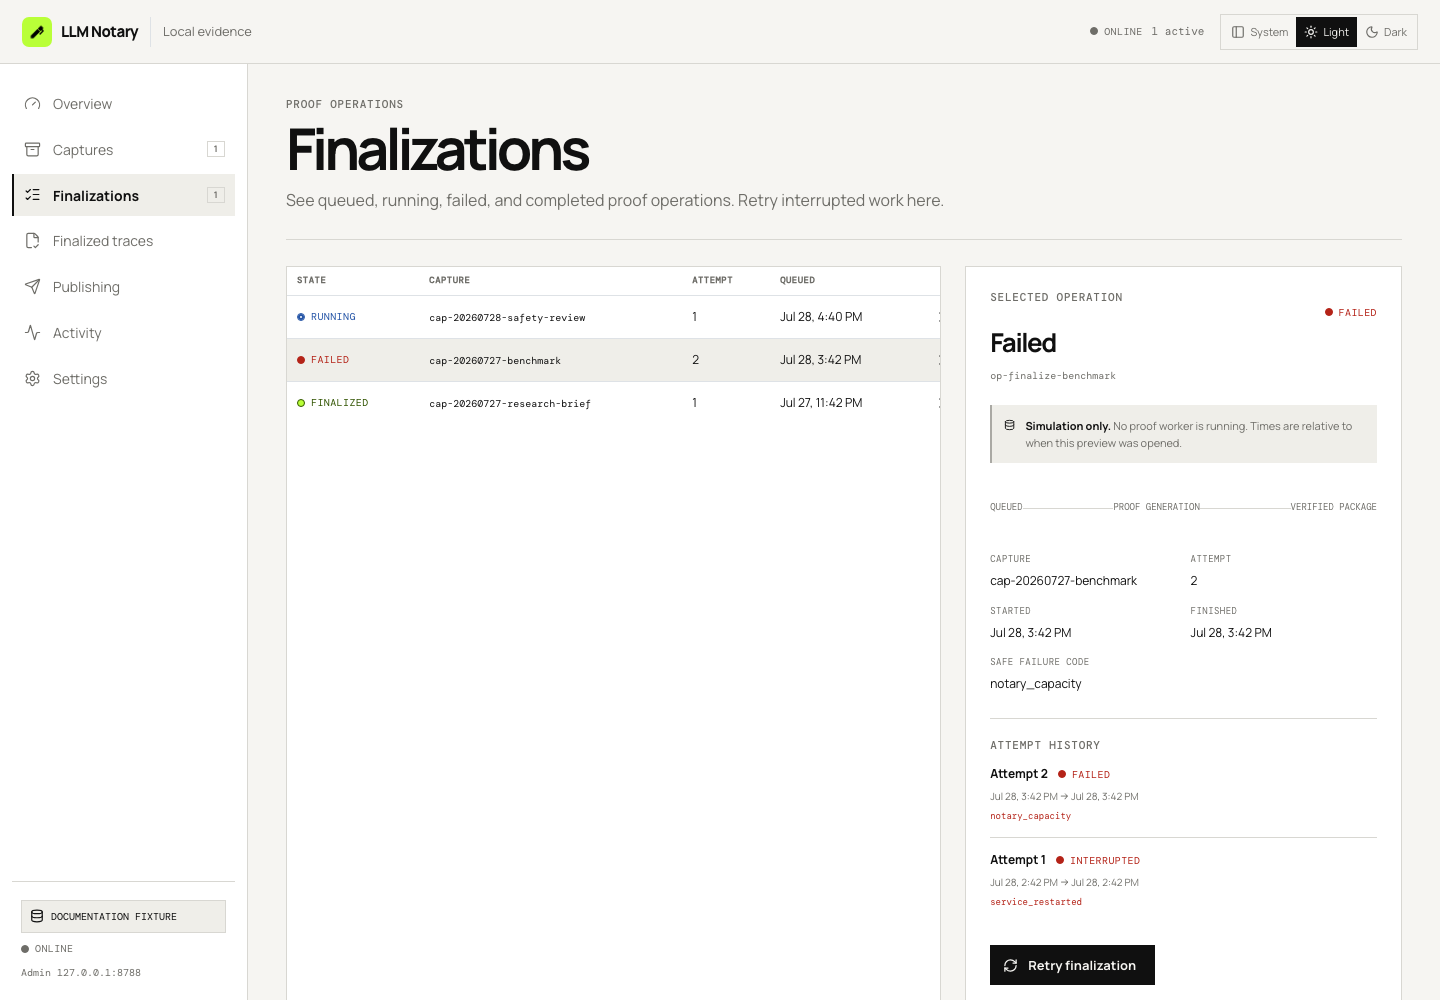
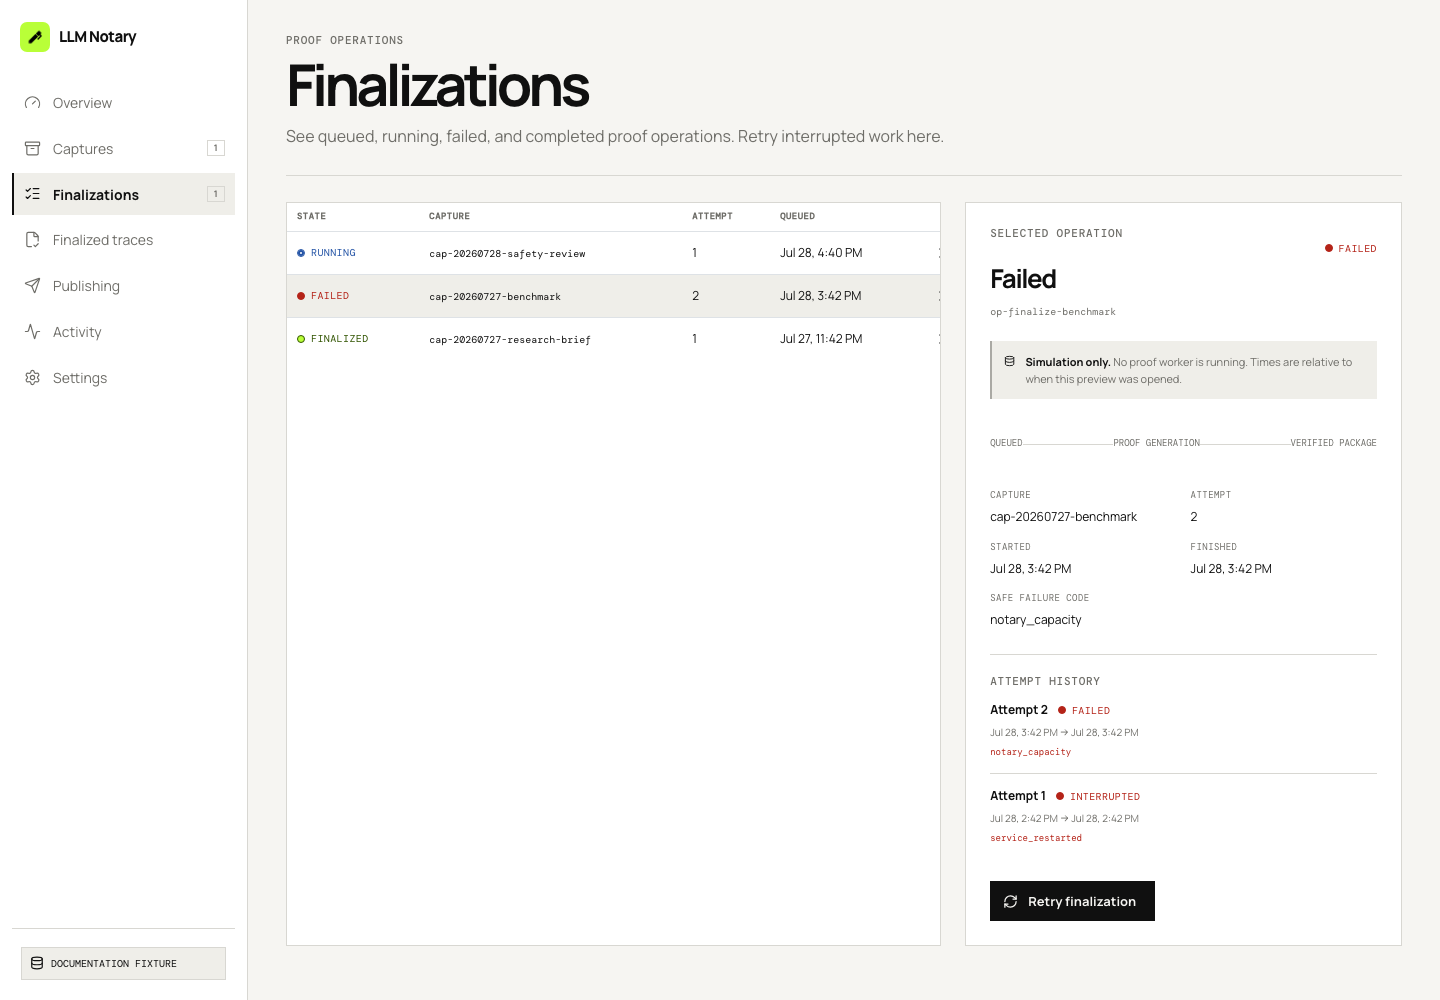
Document filtered service workflows

diff --git a/crates/llm-notary-client/dashboard/assets/dashboard.js b/crates/llm-notary-client/dashboard/assets/dashboard.js
@@ -54,4 +54,4 @@ Archive check (Source C): The stored response SHA-256 matched the bytes download
 
 Run 14 is weaker because the missing temperature leaves a plausible explanation for its three mismatches (Source A). The notes do not prove that temperature caused them.
 
[2 lines of base64/hex data omitted]

diff --git a/js/app/src/main.jsx b/js/app/src/main.jsx
@@ -275,6 +275,7 @@ const docPages = {
       { heading: 'Install the service', code: installCommand },
       { heading: 'Supported systems', body: 'The installer selects checksum-verified macOS or Linux releases for Apple silicon, Intel, x86_64, and ARM64. Windows x86_64 is available as a ZIP release. Every package contains the same llm-notary command.' },
       { heading: 'Start the service', code: 'llm-notary' },
+      { heading: 'Open the local dashboard', body: 'Visit http://127.0.0.1:8788, sign in with the private admin token created at admin.token_path, and use the sidebar for captures, finalizations, trace verification, publishing, activity, and settings. Appearance controls live on Settings; the dashboard does not repeat listener status in a separate header.' },
       { heading: 'Configuration file', body: 'The first service start creates an editable config.toml at the standard user location: ~/.config/llm-notary on Linux, %APPDATA%\\llm-notary on Windows, and ~/Library/Application Support/llm-notary on macOS. It is written once and never replaced. Start with an explicit file when needed:', code: 'llm-notary --config /path/to/config.toml' },
       { heading: 'What it controls', body: 'config.toml holds the listener address, an optional local or self-hosted notary endpoint, bundle and trace directories, the SQLite catalog path and preview limits, and the enabled provider routes. All built-in providers start enabled. The hostname and API behavior of each provider remain fixed; configuration cannot direct the proxy to an arbitrary upstream host.' },
       { heading: 'Bundle encryption is automatic', body: 'On first use, the proxy creates a random bundle-encryption key and stores it in Keychain on macOS, Credential Manager on Windows, or the desktop secret service on Linux. The OS may ask you to unlock that credential. You do not need to run a separate initialization command.' },
@@ -298,6 +299,8 @@ const docPages = {
       { heading: 'Claude Code + Anthropic', code: 'ANTHROPIC_BASE_URL=http://127.0.0.1:8787/anthropic \\\nclaude --bare --no-session-persistence \\\n  -p --model claude-haiku-4-5-20251001 \\\n  \'Reply with exactly: hello\'' },
       { heading: 'OpenCode + DeepSeek', body: 'Set the provider base URL to http://127.0.0.1:8787/deepseek and retain DEEPSEEK_API_KEY in the OpenCode environment.' },
       { heading: 'Search local captures', body: 'Each completed provider interaction keeps its encrypted bundle and gains a row in the local SQLite catalog. Use the dashboard, or fetch the live OpenAPI document and query the authenticated admin API:', code: 'curl -H "Authorization: Bearer $LLM_NOTARY_ADMIN_TOKEN" \\\n  "http://127.0.0.1:8788/v1/captures?query=pricing&model=gpt-5"' },
+      { heading: 'Search punctuation safely', body: 'Capture search treats punctuation as text boundaries instead of raw full-text-search syntax. Hyphenated terms, emphasis marks, multiple words, and double-quoted phrases return matches or an empty list through the normal JSON response.' },
+      { heading: 'Filter operations and activity', body: 'The service applies operation state and event severity/type filters before returning bounded results. Coding agents should discover state, kind, capture, event type, severity, and time filters from the live OpenAPI document instead of reimplementing them client-side.', code: 'GET /v1/operations?state=failed&kind=finalization&limit=20\nGET /v1/events?severity=error&event_type=finalization_failed&limit=20' },
       { heading: 'What the catalog records', body: 'A capture records its provider, request and response model when available, HTTP status, request and response sizes, duration, finalization state, and the retained artifact paths. By default, it indexes the first 1,000 characters of the request prompt and output as plain local text. It does not store header values, cookies, or credentials. Change the catalog path, disable full-text search, or set either preview limit to 0 in config.toml.' },
       { heading: 'Stopping and retrying', body: 'Once the end-of-stream bundle is sealed, stopping the proxy does not invalidate it. Finalization can happen later. If finalization is interrupted, the unchanged bundle can be retried, although the interrupted proof computation starts over.' },
     ],

diff --git a/js/app/src/local-dashboard/fixtures.ts b/js/app/src/local-dashboard/fixtures.ts
@@ -240,13 +240,14 @@ export function createFixtureApi({ nowUnixMs = Date.now() }: { nowUnixMs?: numbe
     }
   });
   const filteredCaptures = (filters: Record<string, string | number | undefined> = {}) => {
-    const query = String(filters.query ?? '').toLowerCase();
+    const queryTerms = String(filters.query ?? '').toLowerCase().split(/[^\p{L}\p{N}_]+/u).filter(Boolean);
     const state = String(filters.finalization_state ?? '');
     const captureState = String(filters.capture_state ?? '');
     const provider = String(filters.provider ?? '');
     const model = String(filters.model ?? '');
     return captures.filter((capture) =>
-      (!query || `${capture.prompt_preview} ${capture.output_preview} ${capture.requested_model}`.toLowerCase().includes(query))
+      (queryTerms.length === 0 || queryTerms.every((term) =>
+        `${capture.prompt_preview} ${capture.output_preview} ${capture.requested_model}`.toLowerCase().includes(term)))
       && (!state || capture.finalization_state === state)
       && (!captureState || capture.capture_state === captureState)
       && (!provider || capture.provider === provider)
@@ -275,8 +276,12 @@ export function createFixtureApi({ nowUnixMs = Date.now() }: { nowUnixMs?: numbe
       recordEvent('finalization_queued', 'Finalization queued', 'info', captureId, operation.operation_id);
       return { operation, deduplicated: false };
     },
-    operations: async () => {
-      const items = structuredClone(operations);
+    operations: async (filters = {}) => {
+      const limit = Number(filters.limit ?? 50);
+      const items = structuredClone(operations.filter((operation) =>
+        (!filters.state || operation.state === filters.state)
+        && (!filters.kind || operation.kind === filters.kind)
+        && (!filters.capture_id || operation.capture_id === filters.capture_id)).slice(0, limit));
       advanceDemoOperations();
       return { items };
     },
@@ -292,7 +297,19 @@ export function createFixtureApi({ nowUnixMs = Date.now() }: { nowUnixMs?: numbe
       }
       return operation;
     },
-    events: async () => ({ items: events, next_cursor: events[0]?.event_id }),
+    events: async (filters = {}) => {
+      const cursor = Number(filters.cursor ?? filters.after ?? 0);
+      const createdAfter = Number(filters.created_after_unix_ms ?? 0);
+      const limit = Number(filters.limit ?? 100);
+      const items = events.filter((event) =>
+        (!cursor || event.event_id > cursor)
+        && (!filters.severity || event.severity === filters.severity)
+        && (!filters.event_type || event.event_type === filters.event_type)
+        && (!filters.capture_id || event.capture_id === filters.capture_id)
+        && (!filters.operation_id || event.operation_id === filters.operation_id)
+        && (!createdAfter || event.created_at_unix_ms >= createdAfter)).slice(0, limit);
+      return { items, next_cursor: events[0]?.event_id };
+    },
     trace: async (captureId) => shiftedTrace(captureId, offset),
     verify: async (captureId) => ({ ...fixtureVerification, capture_id: captureId, verified_at_unix_ms: fixtureVerification.verified_at_unix_ms + offset }),
     publicationAuth: async () => publicationAuth,

diff --git a/js/app/src/local-dashboard/Dashboard.browser.test.tsx b/js/app/src/local-dashboard/Dashboard.browser.test.tsx
@@ -34,7 +34,7 @@ describe('local evidence dashboard', () => {
     await expect.element(page.getByRole('heading', { name: 'Service overview' })).toBeVisible();
     await page.getByRole('button', { name: /Captures/ }).click();
     await expect.element(page.getByRole('heading', { name: 'Captures' })).toBeVisible();
-    await page.getByLabelText('Search captures').fill('benchmark');
+    await page.getByLabelText('Search captures').fill('**benchmark**');
     await expect.element(page.getByText('deepseek-v4-flash')).toBeVisible();
     await expect.element(page.getByText('gpt-5.2', { exact: true })).not.toBeInTheDocument();
     await page.getByRole('list', { name: 'Captures' }).getByRole('button').click();
@@ -230,6 +230,8 @@ describe('local evidence dashboard', () => {
     renderDashboard('/activity', filteredApi);
     await page.getByLabelText('Activity event type').fill('finalization_completed');
     await expect.poll(() => receivedFilters.event_type).toBe('finalization_completed');
+    await expect.element(page.getByText('Finalization completed')).toBeVisible();
+    await expect.element(page.getByText('Finalization failed')).not.toBeInTheDocument();
   });
 
   test('uses separate trace list and detail views on mobile', async () => {

diff --git a/docs/local-dashboard.md b/docs/local-dashboard.md
@@ -30,7 +30,8 @@ Use the sidebar to move between these parts of the local workflow:
   creation and requires confirmation.
 - **Activity** shows a bounded redacted event stream.
 - **Settings** reports safe listener, vault, notary, and preview-policy
-  state and links to the live OpenAPI contract.
+  state, contains the color-scheme control, and links to the live OpenAPI
+  contract.
 
 ## Inspect a capture
 
@@ -95,19 +96,22 @@ changes. Remote publication credentials never enter the browser.
 
 ## Activity and settings
 
-Activity can be refreshed and filtered by severity, capture identifier,
-operation identifier, event type, or time. Events contain bounded messages and
-identifiers, never request bodies, response bodies, raw headers, credentials,
-or filesystem paths. Settings shows safe runtime facts and the exact
-`http://127.0.0.1:8788/openapi.json` discovery URL for scripts and coding
-agents.
+Activity asks the service to filter by severity, capture identifier, operation
+identifier, event type, or time instead of downloading a broad history and
+filtering it in the browser. Events contain bounded messages and identifiers,
+never request bodies, response bodies, raw headers, credentials, or filesystem
+paths. Settings shows safe runtime facts, the System/Light/Dark control, and
+the exact `http://127.0.0.1:8788/openapi.json` discovery URL for scripts and
+coding agents.
 
 ## Responsive navigation and color mode
 
-At 820 px and below, the sidebar becomes a full-height drawer and capture and
-trace list/detail workspaces become separate routed panels. Use the back action
-to return from an inspector. Keyboard focus is visible, dialogs and drawers
-return focus to their trigger, and reduced-motion preferences are respected.
+At 820 px and below, a fixed menu button opens the sidebar as a full-height
+drawer, and capture and trace list/detail workspaces become separate routed
+panels. The local app has no separate header; its brand and navigation live in
+the desktop sidebar. Use the back action to return from an inspector. Keyboard
+focus is visible, dialogs and drawers return focus to their trigger, and
+reduced-motion preferences are respected.
 
 ![Mobile local dashboard with a private capture detail behind the open full-height navigation drawer, including pending and active-work counts and all dashboard destinations.](images/local-dashboard/mobile-navigation.png)
 
@@ -116,7 +120,7 @@ with a clear back action; the desktop list is not squeezed beside it.
 
 ![Mobile capture detail in a single-panel layout with an All captures back action, Finalize button, lifecycle, and safe metadata visible.](images/local-dashboard/mobile-capture-detail.png)
 
-The header provides **System**, **Light**, and **Dark** choices. System follows
+Settings provides **System**, **Light**, and **Dark** choices. System follows
 the operating-system preference and is the default. An explicit override is
 stored locally and can always be returned to System. Dark mode uses neutral
 charcoal surfaces; the lime accent remains reserved for verified or ready

diff --git a/docs/local-service.md b/docs/local-service.md
@@ -93,10 +93,19 @@ browser backend.
   body. Identifiers are opaque strings such as `cap-…` and `op-…`.
 - Errors use `{"error":{"code":"safe_code","message":"safe message"}}`.
   Codes and messages exclude credentials, plaintext headers, and local paths.
+  Invalid query values use the same JSON envelope; for example, a negative
+  `limit` returns `invalid_query_parameter` instead of a framework error page.
 - Capture lists use `limit` and `offset`. Supported filters are `query`,
   `provider`, `model`, `capture_state`, and `finalization_state`.
-- Activity uses a monotonic `cursor`. Pass the returned `next_cursor` on a
-  later request to ask only for newer events.
+- Capture search treats punctuation as token boundaries, so `safety-review`
+  and `**safety**` are safe inputs. Space-separated words must all match;
+  double quotes preserve a phrase such as `"safety review"`.
+- Operation lists support exact `state`, `kind`, and `capture_id` filters plus
+  `limit`.
+- Activity supports exact `severity`, `event_type`, `capture_id`, and
+  `operation_id` filters, a `created_after_unix_ms` lower bound, and `limit`.
+  It also uses a monotonic `cursor`; pass the returned `next_cursor` on a later
+  request to ask only for newer events.
 - Mutations that start or retry background work return `202 Accepted`. Record
   the returned operation identifier and poll its resource. A 202 response does
   not mean the proof is complete.
@@ -128,6 +137,19 @@ capture_id=cap-example
 curl --fail-with-body \
   -H "Authorization: Bearer $LLM_NOTARY_ADMIN_TOKEN" \
   "$LLM_NOTARY_ADMIN_ORIGIN/v1/captures/$capture_id"
+```
+
+Inspect only failed finalizations or error events without downloading and
+filtering the entire bounded history in the client:
+
+```bash
+curl --fail-with-body \
+  -H "Authorization: Bearer $LLM_NOTARY_ADMIN_TOKEN" \
+  "$LLM_NOTARY_ADMIN_ORIGIN/v1/operations?state=failed&kind=finalization&limit=20"
+
+curl --fail-with-body \
+  -H "Authorization: Bearer $LLM_NOTARY_ADMIN_TOKEN" \
+  "$LLM_NOTARY_ADMIN_ORIGIN/v1/events?severity=error&event_type=finalization_failed&limit=20"
 ```
 
 The catalog preview is local plaintext. Set `prompt_preview_chars` and

diff --git a/docs/agent-playbook.md b/docs/agent-playbook.md
@@ -15,6 +15,8 @@ schema authority.
    it in a URL.
 4. Find captures through `/v1/captures` and act on returned `cap-…`
    identifiers. Never ask for or submit an arbitrary local filesystem path.
+   Search input may contain punctuation; the service treats it as text
+   boundaries rather than raw full-text-search syntax.
 5. Treat finalization as asynchronous. Save the returned `op-…` identifier and
    poll its documented operation URL until `finalized`, `failed`, or
    `interrupted`. Use `attempt_history` when explaining retries.
@@ -33,6 +35,12 @@ schema authority.
 Use safe error codes and redacted event messages for diagnosis. If the OpenAPI
 document does not describe an operation, stop and explain that the installed
 service does not support it.
+
+Prefer server-side filters from the discovered contract. In particular,
+filter operations by `state`, `kind`, or `capture_id`, and filter events by
+`severity`, `event_type`, `capture_id`, `operation_id`, or
+`created_after_unix_ms`. Do not download a broad history merely to discard most
+of it in the client.
 
 ## Example prompt for an agent
 
@@ -156,6 +164,10 @@ console.log(captures.items.map(({ capture_id, provider, requested_model, finaliz
   capture_id, provider, requested_model, finalization_state
 })));
 ```
+
+The service returns the documented JSON error envelope for invalid query
+values, including malformed numeric values. Branch on `error.code`; do not
+parse plain-text framework messages.
 
 This output is deliberately limited to safe catalog fields. An automation
 should not print previews unless the user explicitly asks and the local preview

diff --git a/README.md b/README.md
@@ -185,7 +185,9 @@ encrypted `.llmbundle` and records a local catalog entry. The catalog stores
 the provider, requested and response model when available, request/response
 size and status, plus short plain-text prompt and output previews. Its FTS5
 index powers `GET /v1/captures?query=pricing`, which can locate a capture
-without decrypting every bundle. The catalog deliberately
+without decrypting every bundle. Search punctuation is treated as text
+boundaries rather than raw FTS syntax, and quoted phrases remain phrases. The
+catalog deliberately
 does not store HTTP header values, cookies, or credentials. Its previews are
 plain local text; set either `catalog.*_preview_chars` to `0` if that is not
 appropriate for a particular machine. Both listeners must remain on distinct
